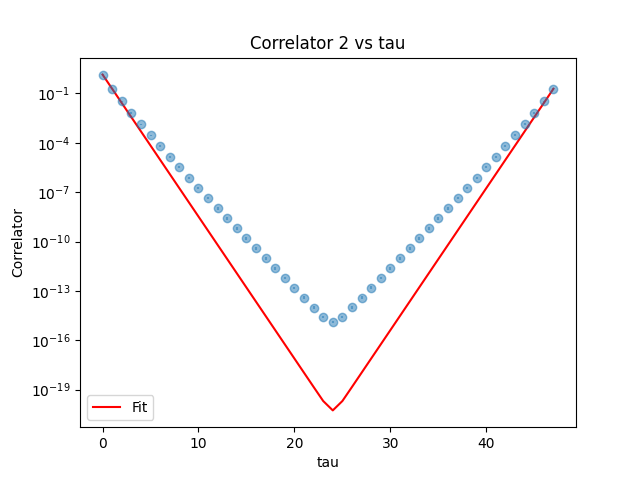
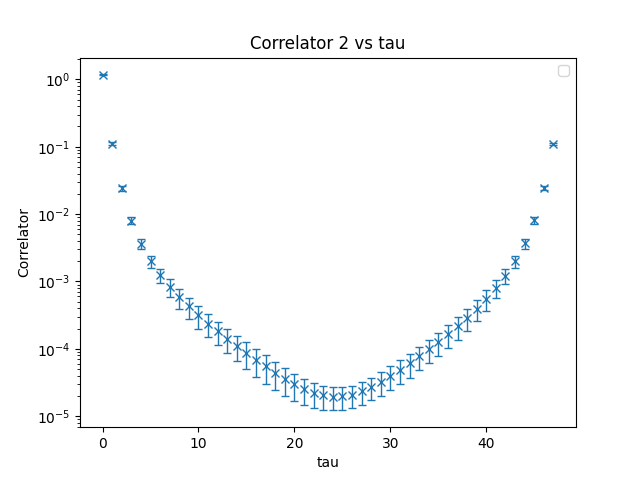
actual lattice data now - fit not working yet - jackknife and binning routine still needs to be looked over

diff --git a/pion_masses.py b/pion_masses.py
@@ -6,9 +6,9 @@ import os
 
 home_dir = '/mnt/c/Users/chris/OneDrive/Desktop/'
 
-n_correlators = 2
+n_correlators = 3
 n_tau = 48
-n_configs = 151
+n_configs = 50
 
 def read_lattice_data(file_path):
     """
@@ -47,7 +47,7 @@ def read_lattice_data(file_path):
         if nums:
             numeric_rows.append(nums)
 
-    del numeric_rows[-1] # remove last row where the deletion of the propagators is logged
+    #del numeric_rows[-1] # remove last row where the deletion of the propagators is logged
     data = np.array(numeric_rows, dtype=float)
     data = data[:,6:-1] # only retain the correlator data
     return np.squeeze(data)
@@ -98,14 +98,13 @@ def fit_function(tau, A, m):
 
 def main():
     data = []
-    for files in os.listdir(os.path.join(home_dir, 'pion_lattice_data')):
-        data.append(read_lattice_data(os.path.join(home_dir, 'pion_lattice_data', files)))
-    print("Data read from file:")
+    for files in os.listdir(os.path.join(home_dir, 'pion_lattice_data/second_run/')):
+        data.append(read_lattice_data(os.path.join(home_dir, 'pion_lattice_data/second_run/', files)))
+    print("Data read from files.")
     data = np.array(data) # the data array is the concatenated correlators for each configuration
     correlators = np.zeros((n_correlators, n_configs, n_tau))
     for i in range(n_correlators):
         correlators[i] = data[:,i*n_tau:(i+1)*n_tau] # seperate the correlators
-    print(correlators.shape)
     ### Create binned data for each correlator
     bin_size = 10
     binned_correlators = []
@@ -159,8 +158,8 @@ def main():
     for i in range(n_correlators):
         mean_correlator = np.mean(correlators[i], axis=0)
         plt.figure()
-        plt.errorbar(tau, mean_correlator, yerr=np.std(correlators[i], axis=0), fmt='o', alpha=0.5)
-        plt.plot(tau, fit_function(tau, *popt), 'r-', label='Fit')
+        plt.errorbar(tau, mean_correlator, yerr=np.std(correlators[i], axis=0), fmt='x', markeredgewidth=1, elinewidth=1, capsize=3)
+        #plt.plot(tau, fit_function(tau, *popt), 'r-', label='Fit')
         plt.yscale('log')
         plt.xlabel('tau')
         plt.ylabel('Correlator')
